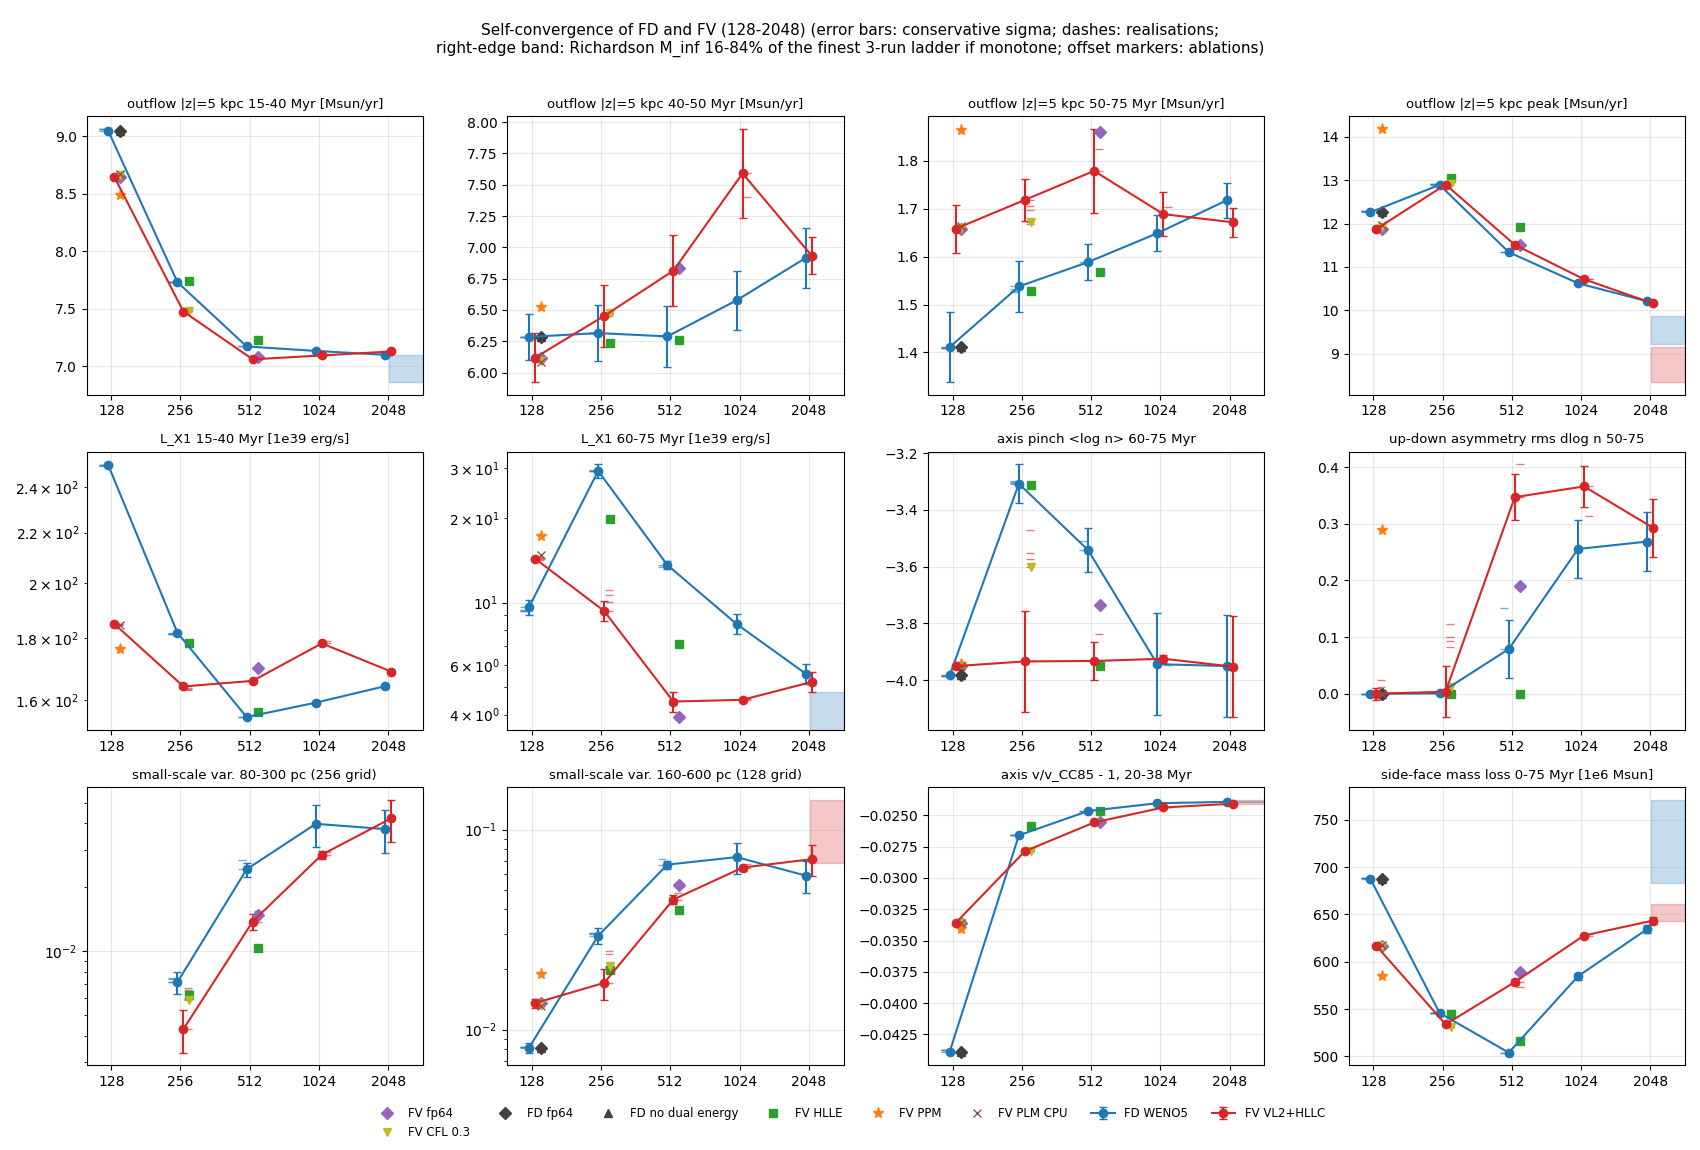
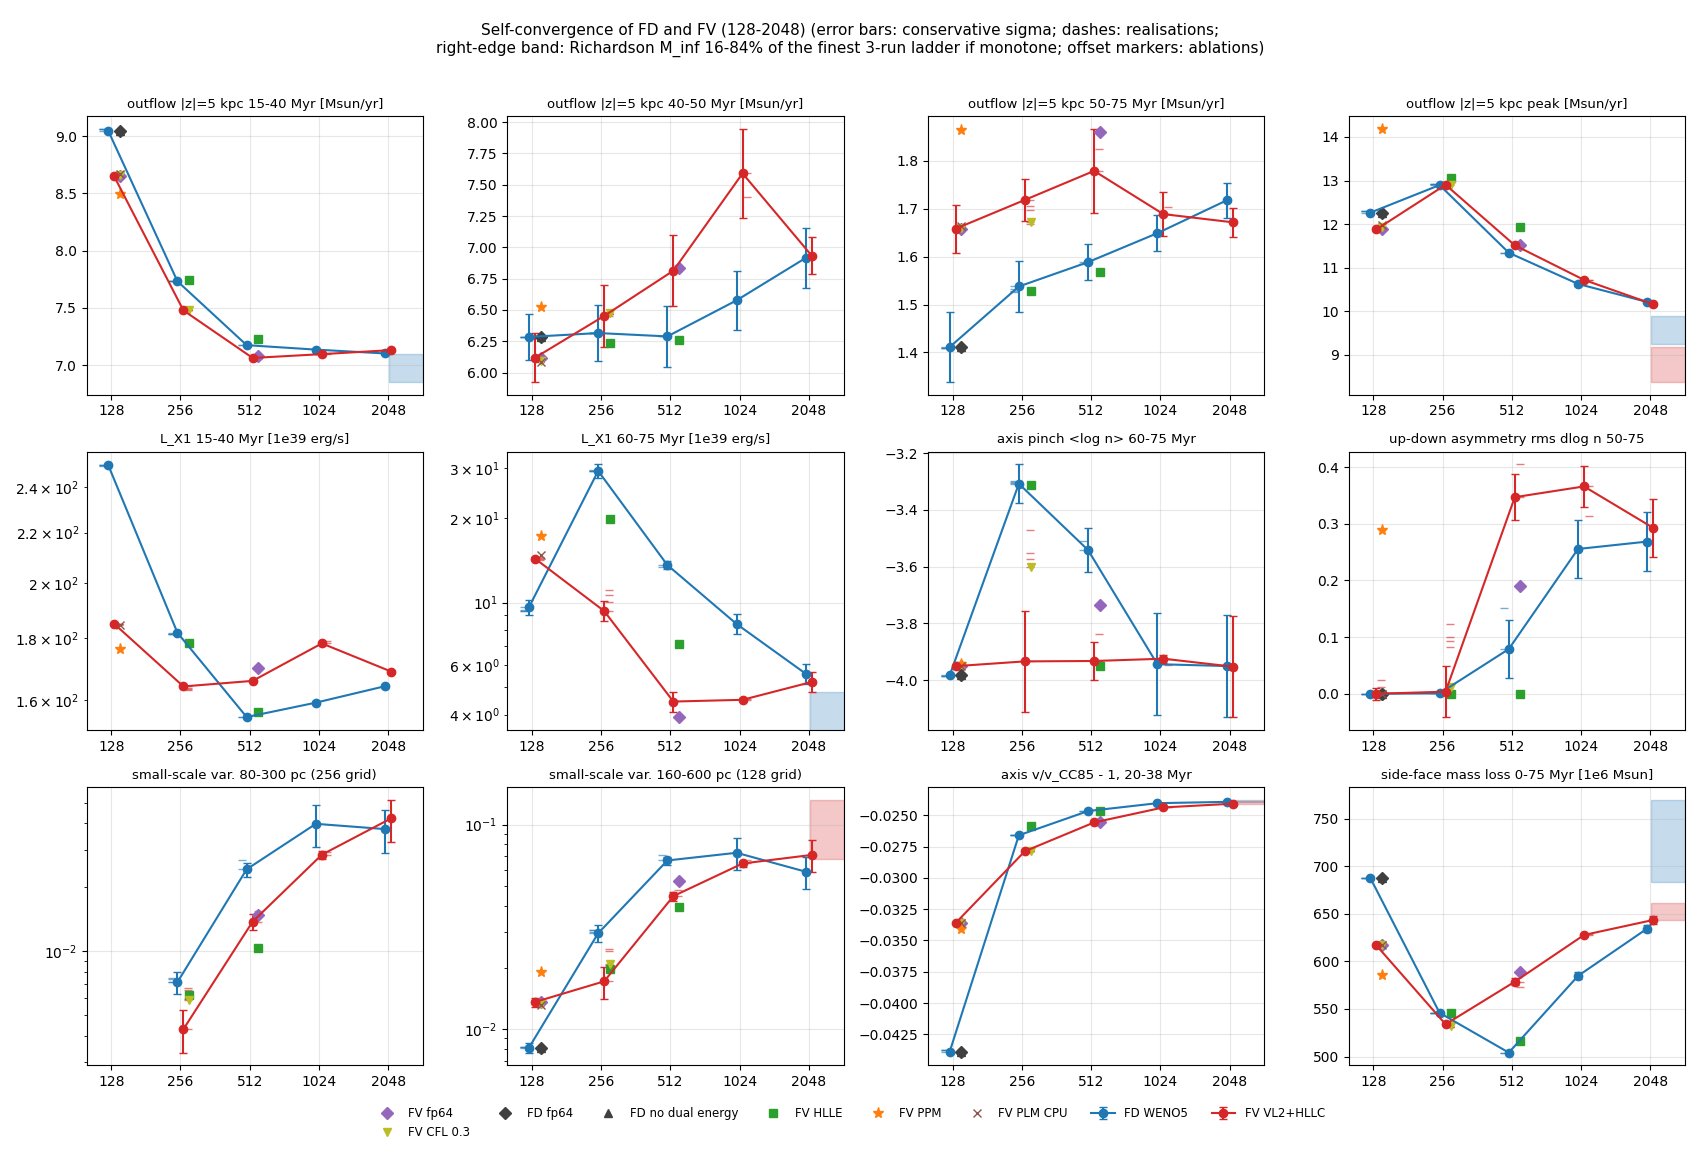
cgols_fvfd_synthesis: 3D metrics use their own time-sampling error; mixed outflow split 15-30 / 30-45 Myr
The borrowed seed-scatter sigma of the early 3D metrics is ~1e-6 relative and gave z of several hundred. 3D
window metrics now always take max(borrowed sigma_traj, sigma_t) with sigma_t the standard error of the window
mean at the 5 Myr cadence (snapshot scatter about a linear trend); ecum5 gets the same for the 5-75 Myr mean
Edot times 70 Myr. At 2048 no 3D metric differs significantly between FD and FV (mixed 1 kpc 30-45 Myr -5%,
15-30 Myr FV +44% at z -0.7).

diff --git a/pytests/self_gravity/cgols/cgols_fvfd_synthesis.py b/pytests/self_gravity/cgols/cgols_fvfd_synthesis.py
@@ -32,14 +32,16 @@ scheme at any N' <= N (relative for positive fluxes/luminosities, absolute for l
 pessimistic variant also applies the FV 256 -> 512 growth once more at 1024 and 2048. sigma_t is the standard error of a
 window mean from 5 Myr block means (a stationarity-based proxy that exists for every run). The conservative
 sigma = max(sigma_traj, sigma_t); a difference is called significant if |FD - FV| > 3 sigma_diff with
-sigma_diff = hypot(sigma_FD, sigma_FV). 3D metrics have no ensembles: they borrow the relative sigma_traj of the
-matching frames metric (out5 window) and take the max with their own sigma_t.
+sigma_diff = hypot(sigma_FD, sigma_FV). 3D metrics have (almost) no ensembles: they borrow the relative sigma_traj
+of the matching frames metric (out5 window) and always (early ones too) take the max with their own sigma_t, the
+time-sampling error of the window mean at the 5 Myr cadence (snapshot scatter about a linear trend / sqrt(n)); the
+borrowed early sigma_traj is ~1e-6 relative and alone gave meaningless z of several hundred.
 
 Statistics printed per metric: FD, FV, FD-FV and z = (FD-FV)/sigma_diff at 128-2048; the power-law slope b
 of |FD-FV| ~ N^b (weighted fit, 256-2048, only if the sign is constant); per scheme the successive differences
 256->512->1024 and 512->1024->2048, the observed order p = log2(|d1|/|d2|) and a Richardson value
-M_inf = M_N + d2/(2^p - 1) when monotone (Monte Carlo over sigma: the fraction of draws that are monotone, the 16-84% range); the equivalent-
-resolution factor k with FV(N) = FD(kN) (interpolated in log2 N on the FD ladder); and the GPU-hours per run. The
+M_inf = M_N + d2/(2^p - 1) when monotone (Monte Carlo over sigma: the fraction of draws that are monotone, the
+16-84% range); the equivalent-resolution factor k with FV(N) = FD(kN) (interpolated in log2 N on the FD ladder); and the GPU-hours per run. The
 ablations (HLLE, fp64, CFL 0.3, PPM) are listed as offsets from their FV baseline in units of sigma.
 
     python cgols_fvfd_synthesis.py [--recompute] [--json OUT] [--no-figures] \
@@ -67,7 +69,9 @@ ablations (HLLE, fp64, CFL 0.3, PPM) are listed as offsets from their FV baselin
     # 2026-11-05: + FV-1024 seed 1 (RUNS["FV1024s1"], HoreKa job 117180, emission cache from the frames): FV-1024
     # sigma_traj measured (2 members).
     # 2026-11-09: + FD-2048 (RUNS["FD2048"], the A-2048 production run; frames, emission and 3D caches from the
-    # A-2048 analysis). FD-FV rows, the FD 512 -> 1024 -> 2048 ladder and the slope fit now run to 2048.
+    # A-2048 analysis). FD-FV rows, the FD 512 -> 1024 -> 2048 ladder and the slope fit now run to 2048. 3D
+    # metrics now always include their own time-sampling error (also the early ones), and the mixed outflow at 1 kpc
+    # is split into 15-30 Myr (high state before the rim episode) and 30-45 Myr (rim episode).
 
 Writes figures/cgols/comparisons/fvfd_summary_significance.png, fvfd_convergence.png and fvfd_cost.png and prints
 the markdown tables. CPU only, numpy + scipy + matplotlib (no jax).
@@ -223,6 +227,8 @@ METRICS = {
     "mass_75": ("box mass at 75 Myr [1e6 Msun]", "rel", "frames"),
     "wind1_15_40": ("3D: wind-entropy outflow 1 kpc 15-40 [Msun/yr]", "rel", "3d"),
     "mixed1_15_40": ("3D: mixed outflow 1 kpc 15-40 [Msun/yr]", "rel", "3d"),
+    "mixed1_15_30": ("3D: mixed outflow 1 kpc 15-30 [Msun/yr]", "rel", "3d"),
+    "mixed1_30_45": ("3D: mixed outflow 1 kpc 30-45 [Msun/yr]", "rel", "3d"),
     "mixed1_50_75": ("3D: entr.+mixed outflow 1 kpc 50-75 [Msun/yr]", "rel", "3d"),
     "edot5_15_40": ("3D: Edot |z|=5 kpc 15-40 [1e42 erg/s]", "rel", "3d"),
     "ecum5": ("3D: energy out |z|=5 kpc 5-75 Myr [1e57 erg]", "rel", "3d"),
@@ -238,6 +244,7 @@ METRICS = {
 #: 3D metric -> frames metric whose relative sigma_traj it borrows
 BORROW = {
     "wind1_15_40": "out5_15_40", "mixed1_15_40": "out5_15_40", "edot5_15_40": "out5_15_40",
+    "mixed1_15_30": "out5_15_40", "mixed1_30_45": "out5_40_50",
     "mixed1_50_75": "out5_50_75", "ecum5": "mout5_cum", "cone1_20_40": "out5_15_40", "cone1_60_75": "out5_50_75",
     "wind1_t30": "out5_15_40", "edot1_t30": "out5_15_40", "edot5_t30": "out5_15_40", "cone1_t30": "out5_15_40",
     "cone1_t60": "out5_50_75", "mixedmass_t60": "out5_50_75",
@@ -430,10 +437,14 @@ def metrics_3d(tag):
         sel = window(t, a, b)
         if sel.sum() >= 3:
             out[name] = ser[key][sel].mean()
-            se[name] = block_se(t, ser[key], a, b, block=10.0) if b - a >= 20 else np.nan
+            # one 5 Myr block per snapshot: the standard error of the window mean from the snapshot scatter
+            # about a linear trend, i.e. the time-sampling error of the 5 Myr cadence
+            se[name] = block_se(t, ser[key], a, b, block=5.0)
 
     win("wind1", "wind1_15_40", 15, 40)
     win("mixed1", "mixed1_15_40", 15, 40)
+    win("mixed1", "mixed1_15_30", 15, 30)
+    win("mixed1", "mixed1_30_45", 30, 45)
     win("entmixed1", "mixed1_50_75", 50, 75)
     win("edot5", "edot5_15_40", 15, 40)
     win("cone", "cone1_20_40", 20, 40)
@@ -442,6 +453,8 @@ def metrics_3d(tag):
         sel = window(t, 5, 75)
         tt, yy = t[sel], ser["edot5"][sel] * 1e42 * 3.15576e13  # erg/s * s/Myr
         out["ecum5"] = float(np.sum(0.5 * (yy[1:] + yy[:-1]) * np.diff(tt)) / 1e57)
+        # time-sampling error of the integral: that of the mean Edot over 5-75 Myr times the 70 Myr span
+        se["ecum5"] = block_se(t, ser["edot5"], 5, 75, block=5.0) * 70.0 * 1e42 * 3.15576e13 / 1e57
     for key, name, T in (("wind1", "wind1_t30", 30), ("edot1", "edot1_t30", 30), ("edot5", "edot5_t30", 30),
                          ("cone", "cone1_t30", 30), ("cone", "cone1_t60", 60), ("mixedmass", "mixedmass_t60", 60)):
         k = int(np.argmin(np.abs(t - T)))
@@ -548,7 +561,7 @@ def stats(runs, data):
             if n >= 1024 and c["extrap"] and 256 in fv and 512 in fv and c["sig_traj"] is not None:
                 c["sig_traj_pess"] = max(c["sig_traj"], fv[512] * max(1.0, fv[512] / fv[256]) * norm(c))
         for c in cell.values():
-            if key in EARLY:
+            if key in EARLY and METRICS[key][2] != "3d":
                 c["sig_t_used"] = None
             else:
                 c["sig_t_used"] = c.get("sig_t")
@@ -884,8 +897,8 @@ FIG_KEYS = ("out5_15_40", "out5_40_50", "out5_50_75", "out5_peak", "mout5_cum", 
 HEAT_KEYS = ("out5_15_40", "out5_40_50", "out5_50_75", "out5_peak", "mout5_cum", "lx1_15_40", "lx1_60_75",
              "lx2_15_40", "lx2_60_75", "ha_15_40", "ha_60_75", "pinch_60_75", "pinched_frac", "asym_50_75",
              "ssv256", "ssv128", "cc85_dlogn", "cc85_dv", "side_loss", "mass_75", "wind1_t30", "edot1_t30",
-             "edot5_t30", "cone1_t30", "cone1_t60", "mixedmass_t60", "mixed1_15_40", "edot5_15_40", "ecum5",
-             "cone1_60_75")
+             "edot5_t30", "cone1_t30", "cone1_t60", "mixedmass_t60", "mixed1_15_40", "mixed1_15_30", "mixed1_30_45",
+             "edot5_15_40", "ecum5", "cone1_60_75")
 
 
 def fig_significance(st):
